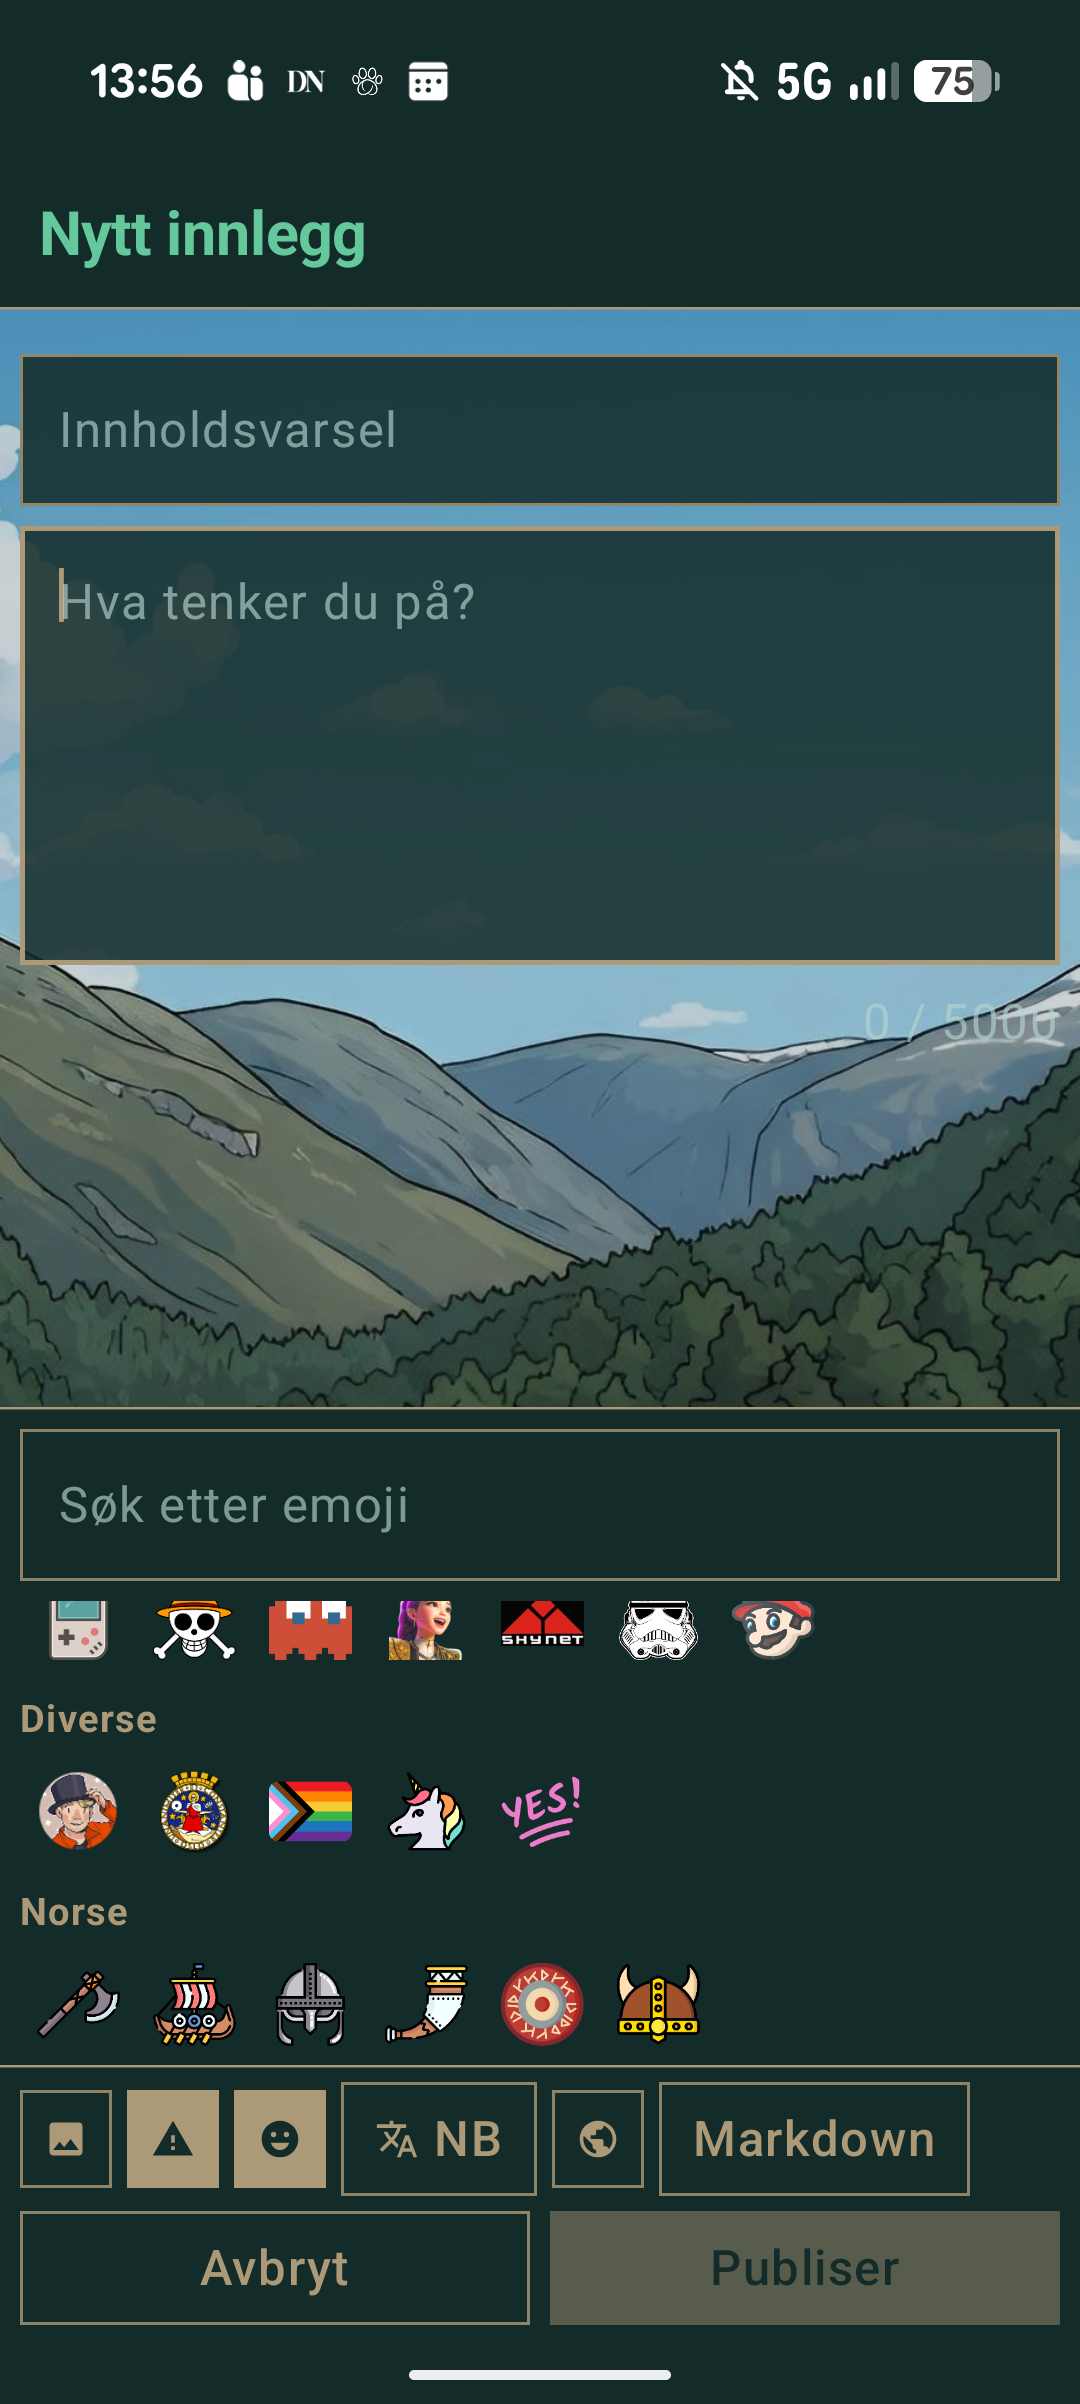
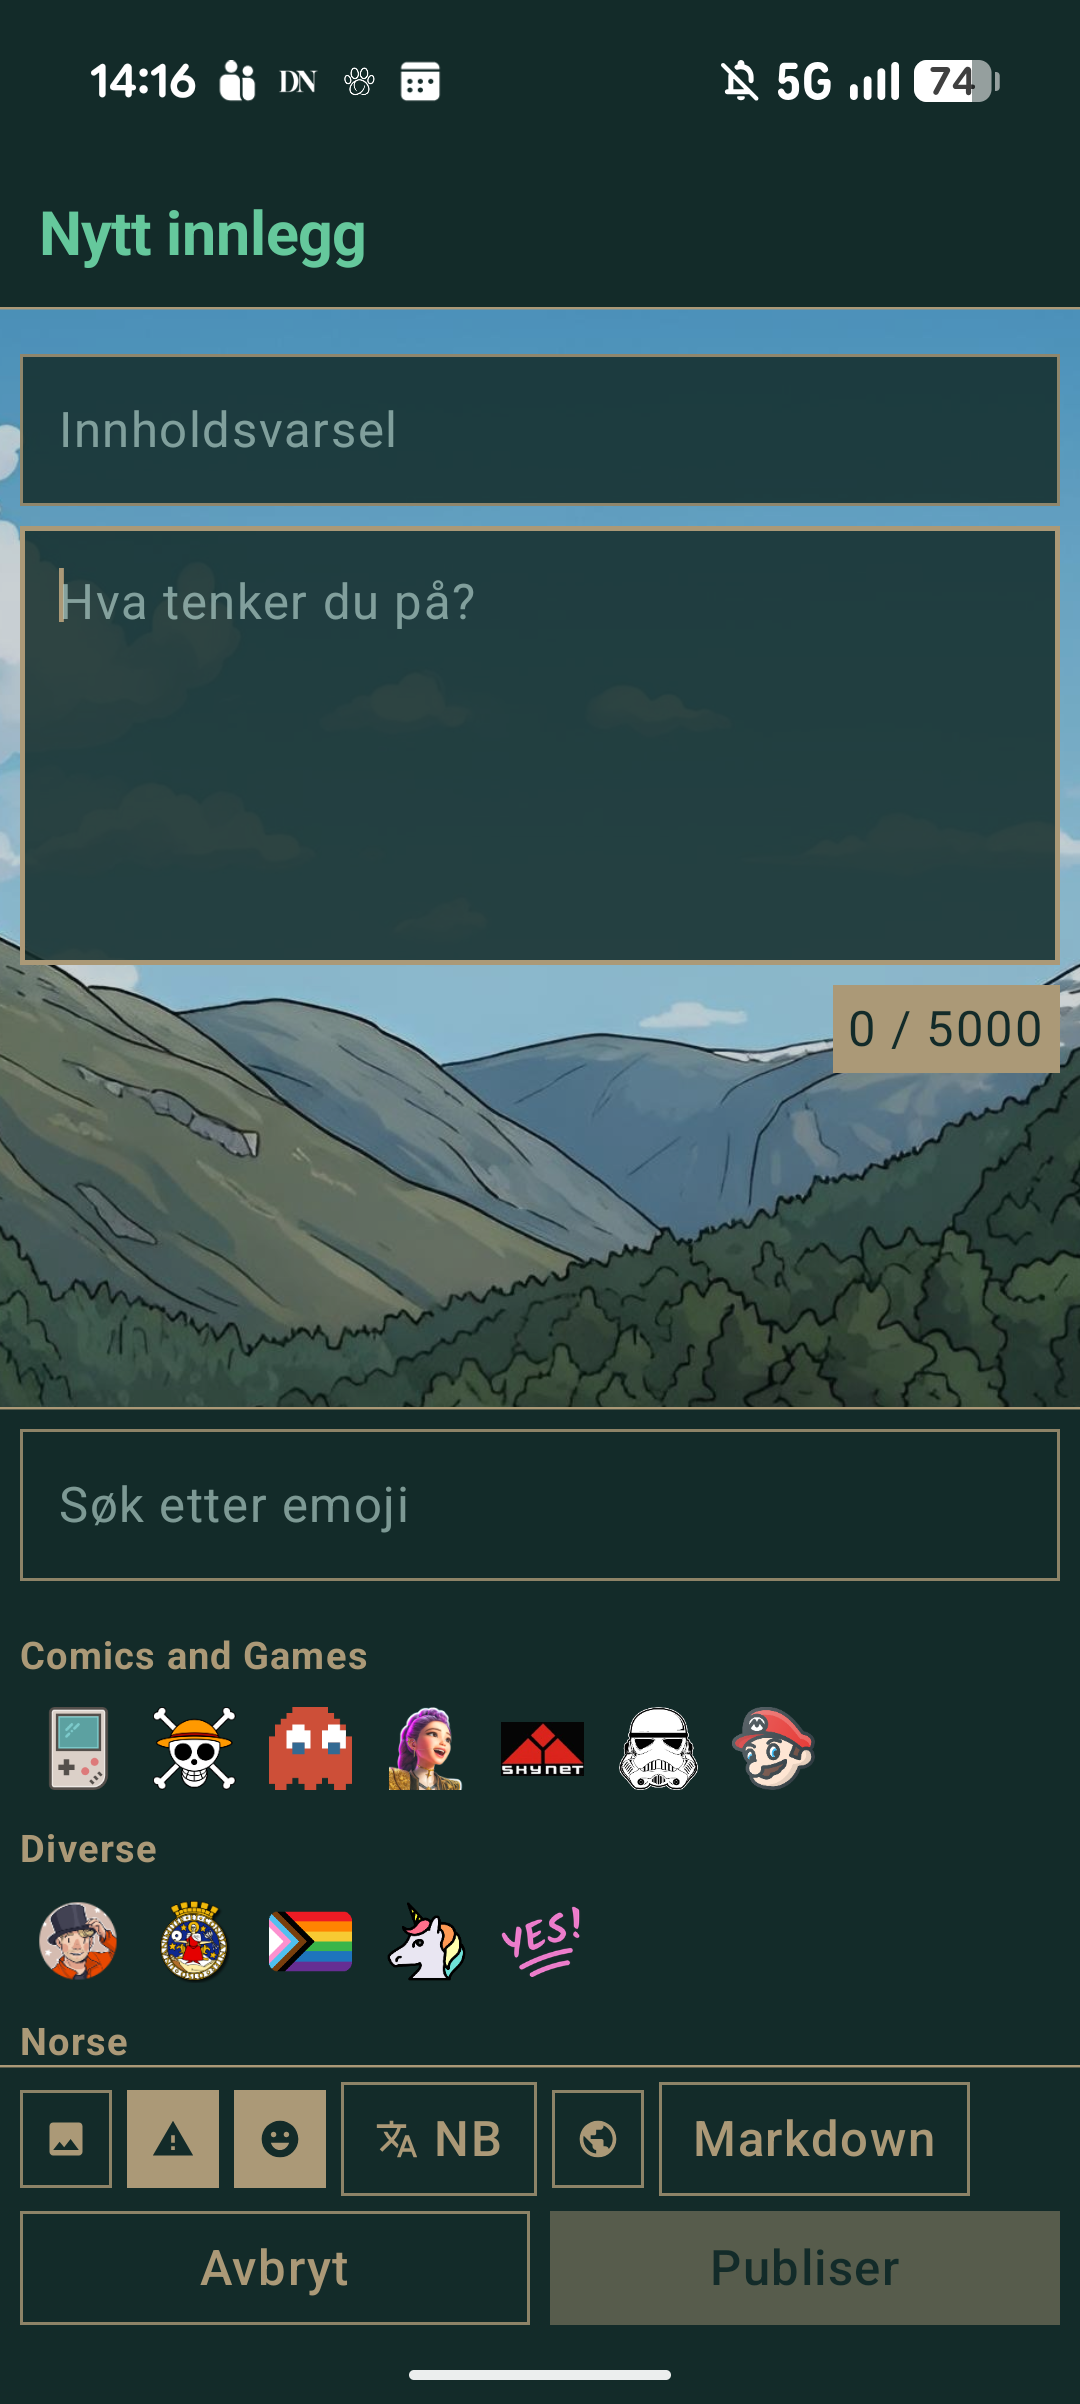
Tegnteller i gul boks som «Skriv»-knappen, og nytt skjermbilde

diff --git a/app/src/main/java/app/pleromastisk/ui/ComposeScreen.kt b/app/src/main/java/app/pleromastisk/ui/ComposeScreen.kt
@@ -334,9 +334,14 @@ fun ComposeScreen(
                 )
                 Text(
                     stringResource(R.string.char_counter, length, maxChars),
-                    color = if (over) PT.Orange else PT.Muted,
+                    // Boks i samme stil som «Skriv»-knappen, så telleren synes uansett bakgrunnsbilde
+                    color = PT.Fg,
                     fontWeight = if (over) FontWeight.Bold else FontWeight.Normal,
-                    modifier = Modifier.align(Alignment.End),
+                    modifier = Modifier
+                        .align(Alignment.End)
+                        .background(if (over) PT.Orange else PT.Link)
+                        .border(1.dp, PT.Border)
+                        .padding(horizontal = 6.dp, vertical = 3.dp),
                 )
                 if (attachments.isNotEmpty()) {
                     Row(
